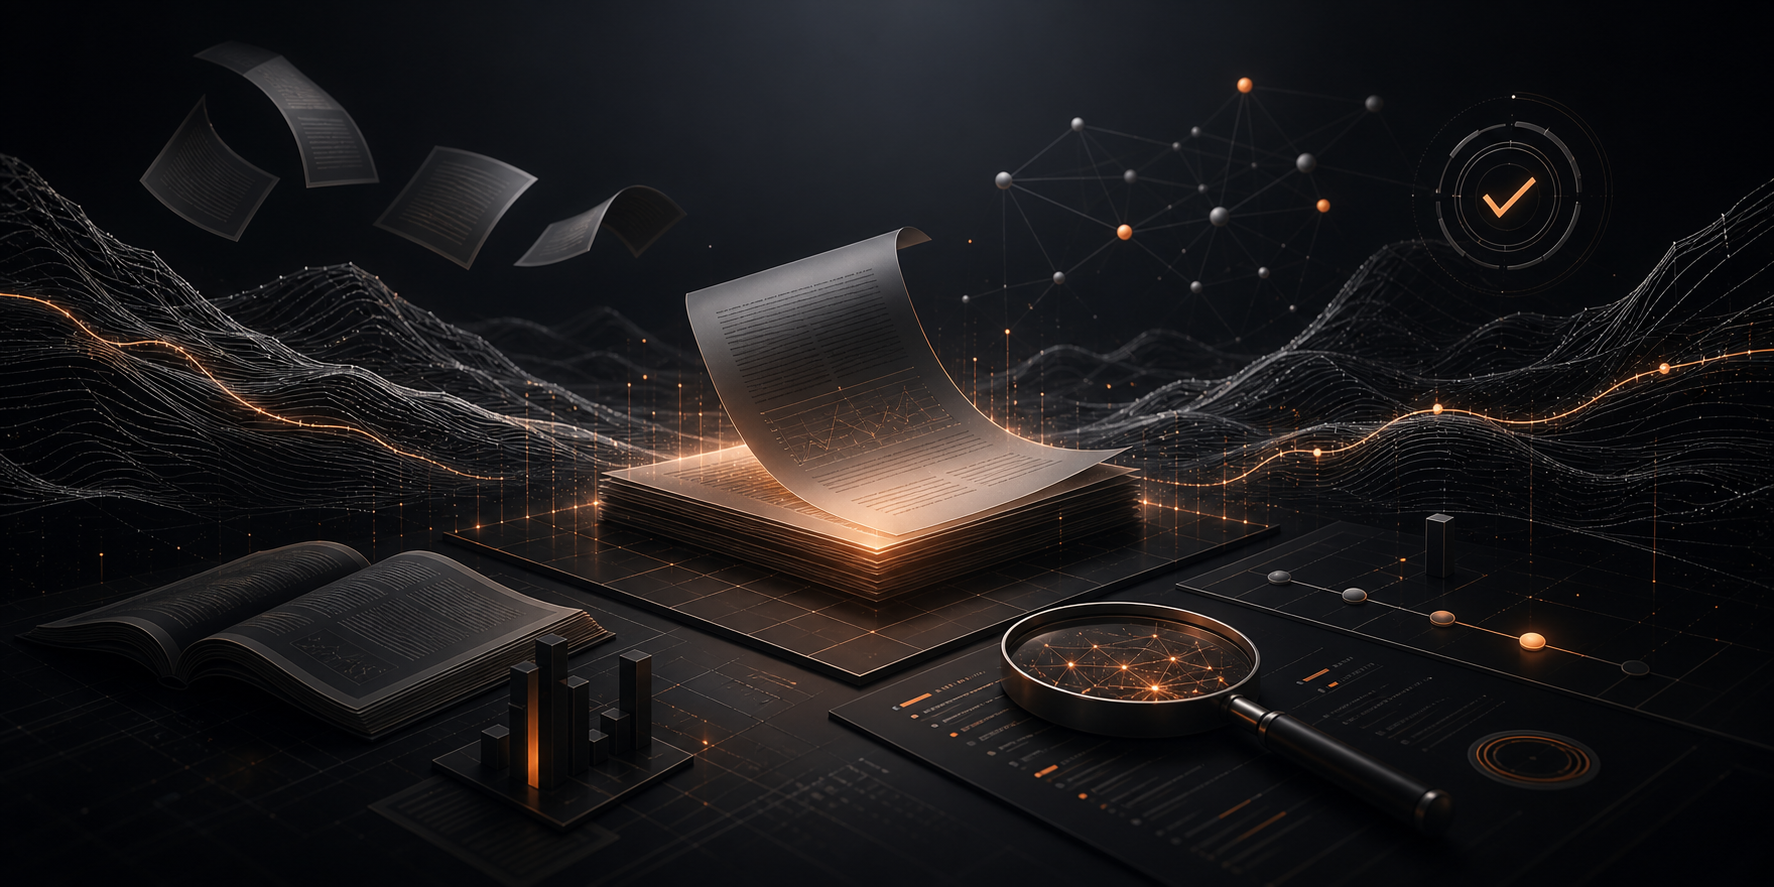
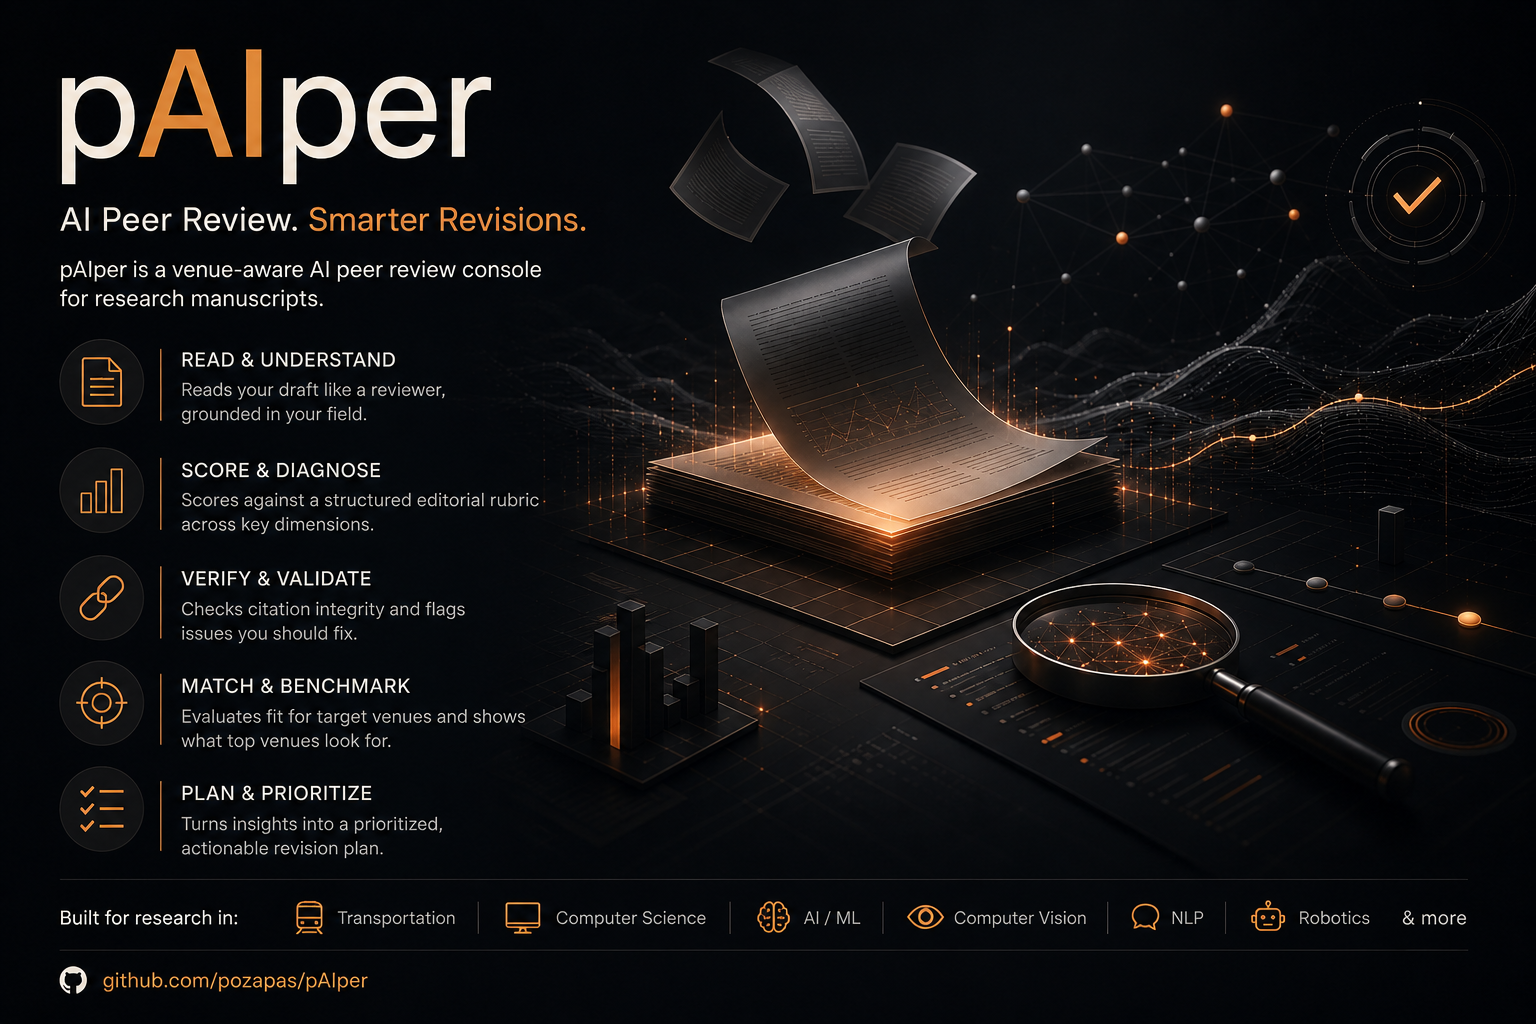
update README.md

diff --git a/README.md b/README.md
@@ -1,4 +1,4 @@
-# pAIper
+# pAIper research review console
 
 ![pAIper research review console](docs/assets/paiper-readme-hero.png)
 